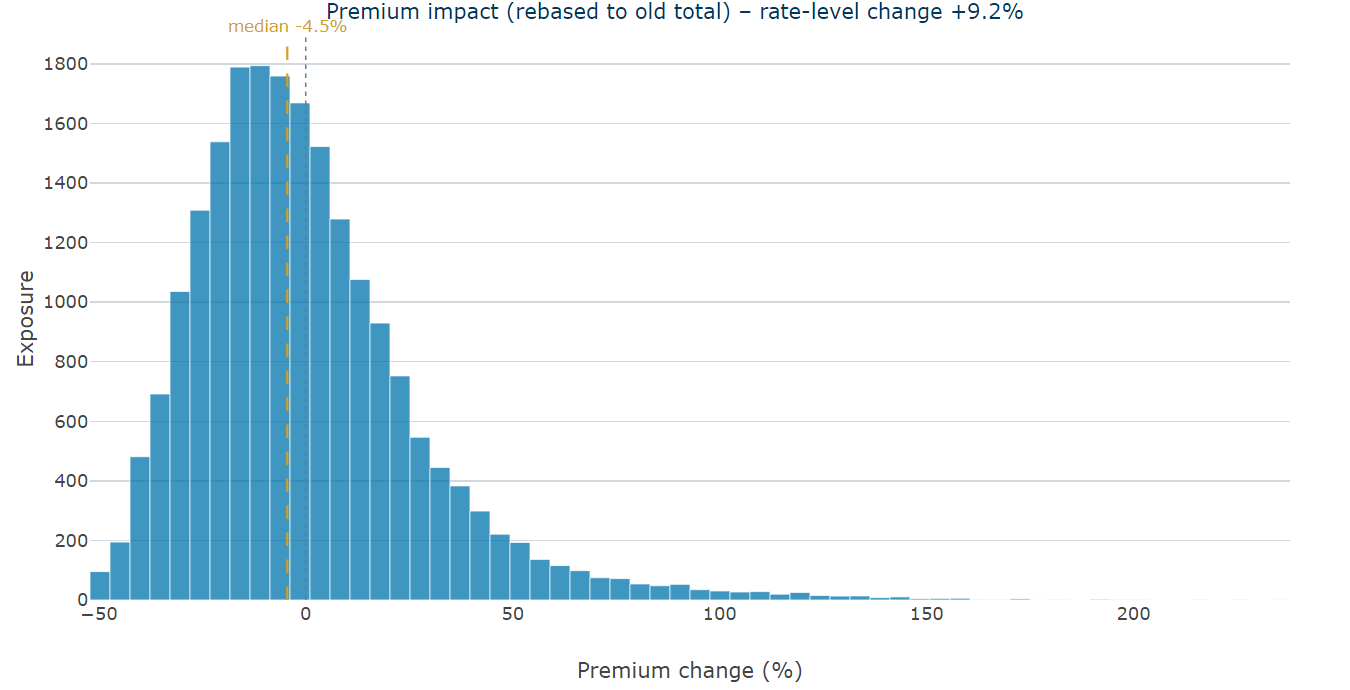
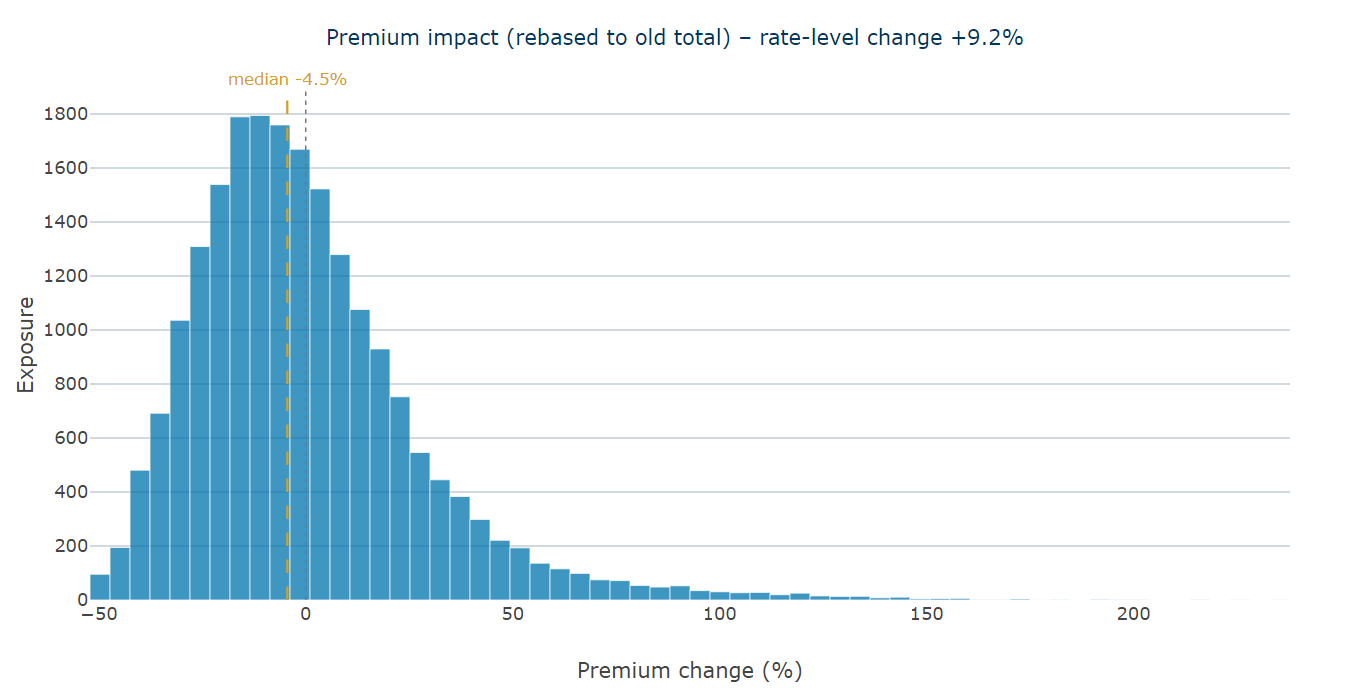
Double-lift interval around its point value; figure labels
Fixed together with the R package (8866219 there):
- The double-lift interval of mad_old - mad_new is the spread of the
  bootstrap replicates laid around the point value; the percentile
  interval could lie beside it (0.110 with 0.051 to 0.105 in the README
  figure). demo/double_lift_interval_coverage.py is the simulation behind
  the choice (RATE-11).
- screen_features(): the label of a bar at or below zero is written to
  the right of the zero line instead of over the feature names.
- premium_impact(): more room above the plot for the median label.

The README figures are regenerated, and the heatmap figure's number
corrected.

diff --git a/demo/double_lift_interval_coverage.py b/demo/double_lift_interval_coverage.py
@@ -1,0 +1,79 @@
+"""Which double-lift verdict each kind of interval gives, by scenario.
+
+The evidence behind RATE-11 in TECHNICAL.md. The statistic and the
+bootstrap are those of double_lift(): bins by the new/old ratio, cut once;
+mean |A/E - 1| over the bins; Poisson(1) policy weights; the new premium
+rebased to the old total. Each scenario draws 300 books with a known truth
+and reports, per interval, how often the verdict is new / old /
+inconclusive and how often the interval covers the true difference (the
+same statistic on the expected claims). The package uses the interval
+"around the point value" (recentred).
+
+Run from the project root (about 25 minutes):
+    python demo/double_lift_interval_coverage.py
+"""
+import numpy as np
+
+rng = np.random.default_rng(12)
+
+
+def bins_of(ratio, w, k=10):
+    o = np.argsort(ratio, kind="stable")
+    cw = np.cumsum(w[o]) / w.sum()
+    b = np.empty(len(ratio), dtype=int)
+    b[o] = np.minimum((cw * k - 1e-12).astype(int), k - 1)
+    return b
+
+
+def mad(a, p):
+    return np.mean(np.abs(a / p - 1))
+
+
+def stat(act, pn, po, bin_, k=10):
+    A = np.bincount(bin_, act, k)
+    return mad(A, np.bincount(bin_, po, k)) - mad(A, np.bincount(bin_, pn, k))
+
+
+def run(name, n, old_eff, new_eff, reps=300, B=200, conf=.9):
+    x1, x2 = rng.normal(size=n), rng.normal(size=n)
+    w = rng.uniform(.05, 1, n)
+    lam = np.exp(-2 + .3 * x1 + .3 * x2)
+    old = np.exp(-2 + .3 * x1 + old_eff * x2)
+    new = np.exp(-2 + .3 * x1 + new_eff * x2)
+    new = new * (old * w).sum() / (new * w).sum()
+    bin_ = bins_of(new / old, w)
+    pn0, po0 = new * w, old * w
+    D = stat(lam * w, pn0, po0, bin_)
+    q = [(1 - conf) / 2, 1 - (1 - conf) / 2]
+    res = {m: {"new": 0, "old": 0, "inconcl": 0, "cover": 0}
+           for m in ("percentile", "recentred", "basic")}
+    for _ in range(reps):
+        act = rng.poisson(lam * w)
+        th = stat(act, pn0, po0, bin_)
+        sims = np.empty(B)
+        for b in range(B):
+            kk = rng.poisson(1, n)
+            pn, po = pn0 * kk, po0 * kk
+            pn = pn * po.sum() / pn.sum()
+            sims[b] = stat(act * kk, pn, po, bin_)
+        ql, qh = np.quantile(sims, q)
+        m = sims.mean()
+        for meth, (a, c) in {"percentile": (ql, qh),
+                             "recentred": (th + ql - m, th + qh - m),
+                             "basic": (2 * th - qh, 2 * th - ql)}.items():
+            v = "new" if a > 0 else "old" if c < 0 else "inconcl"
+            res[meth][v] += 1
+            res[meth]["cover"] += a <= D <= c
+    truth = "new" if D > 0 else "old"
+    print("%-40s D=%+.4f (better: %s)" % (name, D, truth))
+    for meth, r in res.items():
+        print("   %-10s new %5.1f%%  old %5.1f%%  inconclusive %5.1f%%  coverage %5.1f%%"
+              % (meth, *(100 * r[k] / reps for k in ("new", "old", "inconcl", "cover"))))
+
+
+run("new right, old misses half, 40k", 40000, .15, .30)
+run("new right, old misses a sixth, 40k", 40000, .25, .30)
+run("mirrored errors (D ~ 0), 40k", 40000, .24, .36)
+run("old better, 40k", 40000, .2, .4)
+run("new right, old misses half, 10k", 10000, .15, .30)
+run("mirrored errors (D ~ 0), 10k", 10000, .24, .36)

diff --git a/pricingtools_rmo/screen.py b/pricingtools_rmo/screen.py
@@ -705,11 +705,15 @@ def screen_features(model, features=None, split=(0.6, 0.2, 0.2), max_depth=2,
     text = ["Gain: " + ("NA" if np.isnan(g) else "%.3f" % g)
             + (" · already in the model" if im else "")
             for g, im in zip(fp["Gain"].to_numpy(dtype=float), fp["InModel"])]
+    # A bar at or below zero runs to the left, so a label outside it lands
+    # on the feature names; it is written to the right of the zero line
+    # instead, in the empty half of the row
+    neg = ~np.isnan(pd_vals) & (pd_vals <= 0)
     fig = go.Figure()
     fig.add_trace(go.Bar(
         x=pd_vals, y=labels, orientation="h",
         marker=dict(color=[ta_blue if v > 0 else ta_muted for v in pd_vals]),
-        text=text,
+        text=text, textposition=["none" if n else "auto" for n in neg],
         hovertemplate=("<b>%{y}</b><br>PermDeviance: %{x:.2f}"
                        "<br>%{text}<extra></extra>")))
     fig.update_layout(
@@ -724,6 +728,10 @@ def screen_features(model, features=None, split=(0.6, 0.2, 0.2), max_depth=2,
         shapes=[dict(type="line", xref="x", yref="paper",
                      x0=0, x1=0, y0=0, y1=1,
                      line=dict(color=ta_muted, width=1, dash="dot"))],
+        annotations=[dict(x=0, y=lab, xref="x", yref="y", text=t,
+                          xanchor="left", xshift=6, showarrow=False,
+                          font=dict(color=ta_muted, size=12))
+                     for lab, t, n in zip(labels, text, neg) if n],
         hoverlabel=dict(bgcolor="white", font=dict(size=12)),
         plot_bgcolor="white", paper_bgcolor="white",
         margin=dict(l=140, b=60, r=40))

diff --git a/pricingtools_rmo/lift.py b/pricingtools_rmo/lift.py
@@ -536,7 +536,11 @@ def double_lift(data,
     # [RATE-11]
     # How much of that difference survives resampling the policies. The bins
     # stay as cut on the full data; every replicate reweights the policies
-    # within them and, with rebase, rebases again.
+    # within them and, with rebase, rebases again. The interval is the spread
+    # of the replicates laid around the point value, not their quantiles as
+    # such: mean |A/E - 1| grows with noise, and more for the model whose A/E
+    # sits near 1, so every replicate is pulled towards the old model and a
+    # percentile interval can sit beside its own point value.
     diff_ci = np.array([np.nan, np.nan])
     if n_boot > 0:
         def mad_of(a, p):
@@ -558,8 +562,9 @@ def double_lift(data,
             sims[i] = mad_of(sa, so) - mad_of(sa, sn)
         sims = sims[~np.isnan(sims)]
         if len(sims):
-            diff_ci = np.quantile(sims, [(1 - conf_level) / 2,
-                                         1 - (1 - conf_level) / 2])
+            diff_ci = mad_diff + np.quantile(sims - sims.mean(),
+                                             [(1 - conf_level) / 2,
+                                              1 - (1 - conf_level) / 2])
 
     # [RATE-09] [RATE-11]
     # A winner only where the interval excludes 0. Without a bootstrap the

diff --git a/tests/test_lift.py b/tests/test_lift.py
@@ -434,6 +434,9 @@ def test_the_double_lift_names_a_winner_only_when_the_interval_excludes_0():
     assert clear.stats.mad_diff_ci[0] > 0
     assert clear.stats.mad_diff == clear.stats.mad_old - clear.stats.mad_new
     assert "): new</sup>" in clear.plot.layout.title.text
+    # the interval lies around its own point value (RATE-11)
+    lo, hi = clear.stats.mad_diff_ci
+    assert lo <= clear.stats.mad_diff <= hi
     # two models fitted on the same signal cannot be told apart; without
     # large losses behind it that is the verdict, not a warning
     close = no_warnings(double_lift, d, model_freq_new=m_good,
@@ -442,6 +445,8 @@ def test_the_double_lift_names_a_winner_only_when_the_interval_excludes_0():
     assert close.stats.winner == "inconclusive"
     assert close.stats.mad_diff_ci[0] <= 0
     assert close.stats.mad_diff_ci[1] >= 0
+    lo, hi = close.stats.mad_diff_ci
+    assert lo <= close.stats.mad_diff <= hi
     # without the bootstrap the point values decide, as before
     pt = double_lift(d, model_freq_new=m_good, model_freq_old=m_reg,
                      actual_col="AantalClaims", n_boot=0)

diff --git a/pricingtools_rmo/impact.py b/pricingtools_rmo/impact.py
@@ -435,7 +435,9 @@ def premium_impact(data,
         legend=dict(orientation="h", y=-0.2),
         showlegend=spotlight_res is not None,
         plot_bgcolor="white", paper_bgcolor="white",
-        margin=dict(b=60, r=40))
+        # room above the plot for the median label, which otherwise runs
+        # into the title
+        margin=dict(t=60, b=60, r=40))
     set_config(fig, "impact")
 
     return Result(

diff --git a/TECHNICAL.md b/TECHNICAL.md
@@ -1392,7 +1392,10 @@ register entry here is written so it can be read on its own.
   sorted once (`gini_boot()`) or the bins are kept as cut on the full data
   and every replicate reweights the policies within them (rebased again
   when `rebase=True`). The counts are drawn from the call's numpy
-  Generator (PY-05). The interval is in the title and the return value.
+  Generator (PY-05). The Gini interval is the percentile interval of the
+  replicates. The double-lift interval is their spread laid around the
+  point value: `mad_diff + quantile(sims - mean(sims), ...)`. The interval
+  is in the title and the return value.
   A warning is raised only when large losses are the reason: the ten
   largest records carry 10% or more of `actual_col` (`large_loss_note()`)
   and, for the Gini, the interval is wider than half the Gini and than
@@ -1401,7 +1404,15 @@ register entry here is written so it can be read on its own.
   so does the double-lift verdict (RATE-09). Capping the losses is the
   remedy for that, and the warning says so. A wide interval on a small book
   has no such remedy; warning about it fired on an ordinary frequency lift
-  of 20,000 policies and was noise.
+  of 20,000 policies and was noise. `mean |A/E - 1|` grows with noise, and
+  more for the model whose A/E sits near 1, so every replicate is pulled
+  towards the old model: the percentile interval of `mad_old - mad_new`
+  sat below the point value, at times beside it entirely (0.110 with an
+  interval of 0.051 to 0.105, in the README's double-lift figure before
+  this change; 0.083 to 0.133 since). Laid
+  around the point value, the spread contains it by construction, and the
+  verdict gains power without naming the wrong model more often than the
+  confidence level allows.
 - **Where.** `_utils.py`, `gini_boot()`, `gini_ordered()`, `top_share()`,
   `large_loss_note()`, `check_boot()`; `lift.py`, `model_lift()`,
   `double_lift()`.
@@ -1409,14 +1420,35 @@ register entry here is written so it can be read on its own.
   interval 0.143 to 0.326 (0.133 to 0.302 for the true risk premium), so
   the model and the truth could not be told apart on it. The Python draws
   differ from R's for the same seed, so its interval differs by the
-  bootstrap's own noise.
+  bootstrap's own noise. The double-lift interval, 300 simulated books per
+  case, 200 replicates, 90%: the share of books with the verdict in
+  brackets.
+
+  | Case (true `mad_old - mad_new`) | percentile | around the point value | basic bootstrap |
+  |---|---|---|---|
+  | new right, old misses half a factor, 40k (+0.088) | new 95% | new 96% | new 97% |
+  | new right, old misses a sixth, 40k (+0.026) | new 18% | new 37% | new 51% |
+  | new right, old misses half, 10k (+0.091) | new 36% | new 52% | new 68% |
+  | two mirrored errors, 40k (-0.010) | wrong winner 1% | wrong winner 4% | wrong winner 7% |
+  | two mirrored errors, 10k (-0.010) | wrong winner 2% | wrong winner 8% | wrong winner 18% |
+  | old better, 40k (-0.018) | old 15% | old 21% | old 25% |
+
+  The basic bootstrap names the wrong model up to 18% of the time; the
+  percentile interval misses most real differences. The simulation is
+  `demo/double_lift_interval_coverage.py`.
 - **Limitation.** The interval resamples policies only. The models are
   held fixed, so an in-sample interval ignores that they were fitted on
-  the same rows.
+  the same rows. And `mad_diff` itself is pulled the same way as the
+  replicates (the sample's own noise inflates the better model's
+  `|A/E - 1|`), so no interval around it covers the true difference at the
+  nominal rate: 52% to 87% in the cases above, against 90%.
 - **Pinned by.** `test_lift.py`:
   `test_model_lift_reports_a_bootstrap_interval_around_the_gini`,
   `test_large_losses_that_decide_the_gini_or_the_verdict_are_named`,
-  `test_the_double_lift_names_a_winner_only_when_the_interval_excludes_0`.
+  `test_the_double_lift_names_a_winner_only_when_the_interval_excludes_0`
+  (which also checks that the interval contains its point value).
+- **History.** Until November 2026 the double-lift interval was the
+  percentile interval of the replicates, in both packages.
 
 #### RATE-12 The double-lift weight follows the models
 

diff --git a/README.md b/README.md
@@ -1306,7 +1306,7 @@ print(h.cells[h.cells.gy == "Stad"].sort_values("gx").head(4))   # by age band
 ```
 
 The same view on the demo portfolio of the figures, where young city
-drivers are underpriced by about 20% and the same age group elsewhere is
+drivers are underpriced by 24% and the same age group elsewhere is
 overpriced:
 
 ![Residual heatmap](docs/figures/README-residual-heatmap.png)
@@ -2475,7 +2475,7 @@ And in `dl.stats`:
 | Value | What it tells you |
 |---|---|
 | `mad_new`, `mad_old` | average distance from 1.0 across the slices, lower is better calibrated |
-| `mad_diff`, `mad_diff_ci` | `mad_old - mad_new`, positive when the new tariff is closer to 1, and its bootstrap interval |
+| `mad_diff`, `mad_diff_ci` | `mad_old - mad_new`, positive when the new tariff is closer to 1, and its bootstrap interval: the spread of the replicates laid around the point value, which it therefore always contains |
 | `winner` | `"new"` or `"old"` only when that interval excludes 0; `"inconclusive"` when it does not; `"tie"` when the two are equal |
 | `rate_level_change` | how much more the new tariff collects overall, measured before any rebasing |
 | `weight_col` | what the slices hold equal amounts of |
